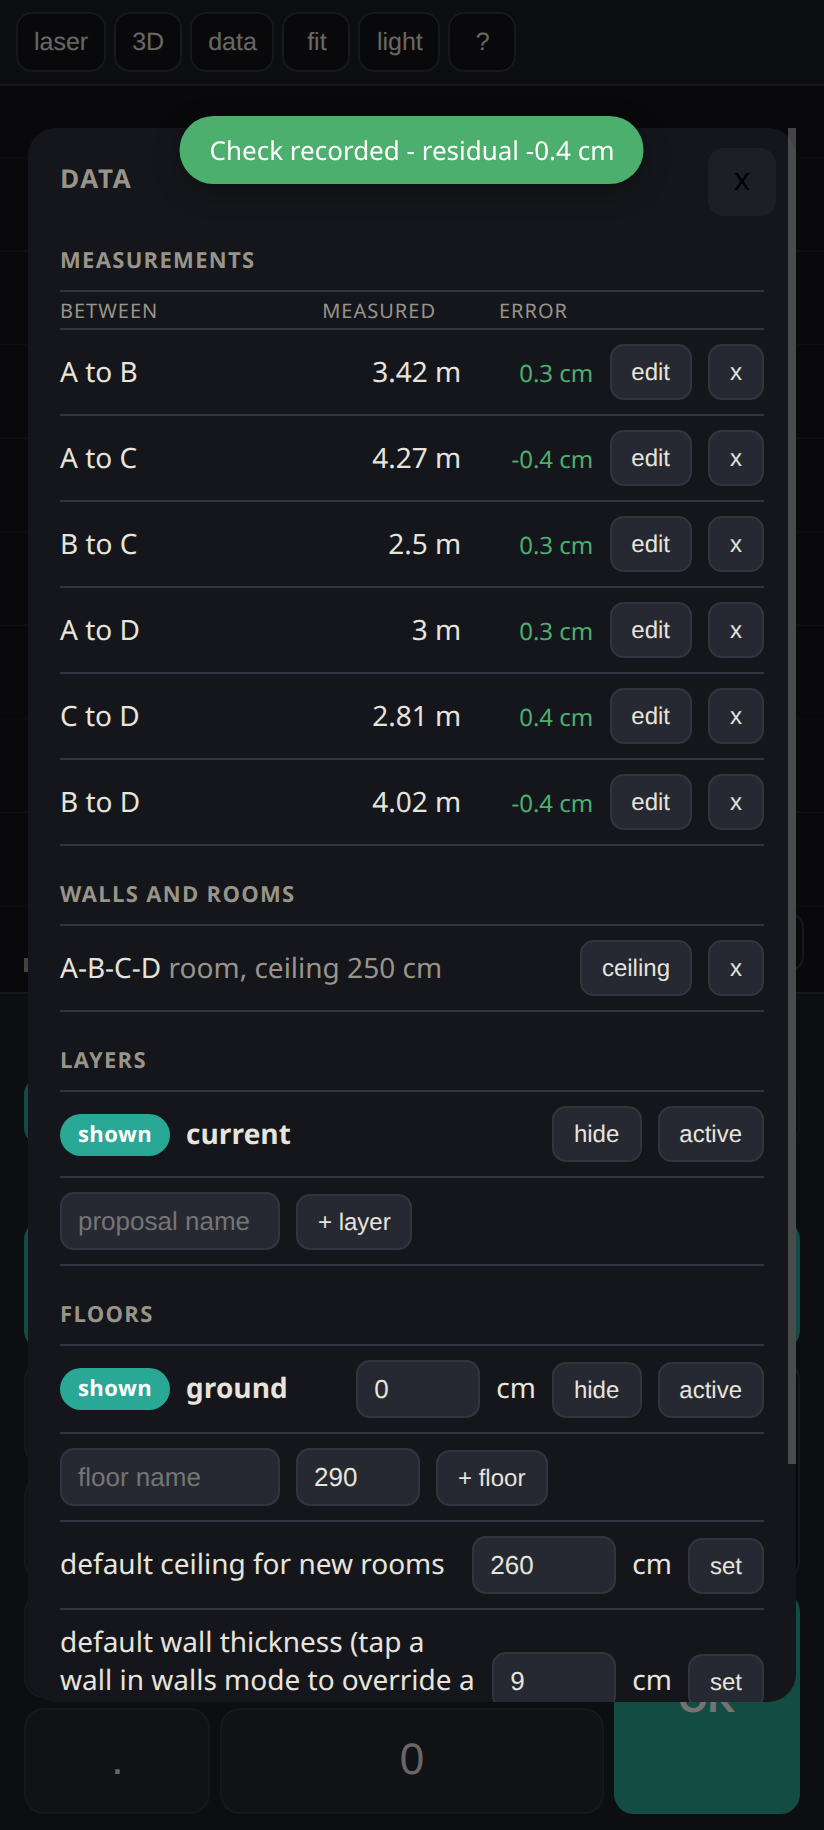
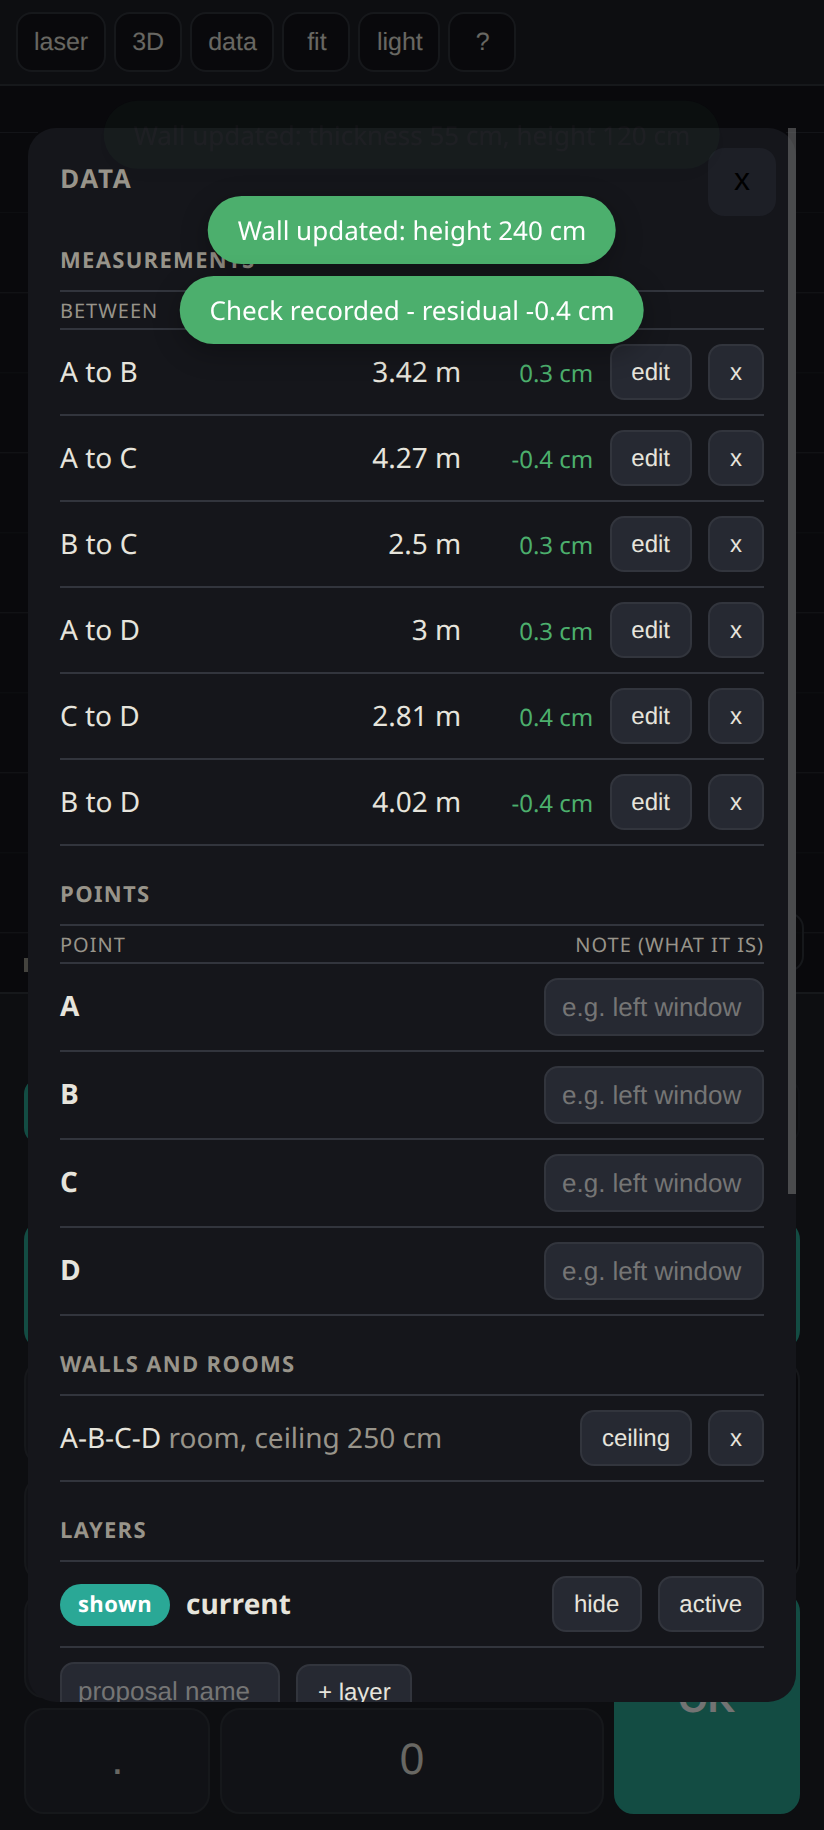
laser: OK fires the shot, dot held on for aiming, aim guidance
Measuring one-handed meant holding aim while hunting for the shoot
button, then moving to OK to commit. Now the primary key IS the shot:
with a triggerable meter connected and the field empty it reads
'shoot' and fires the laser; the reading lands, the key reverts to OK,
and a second press commits. Same thumb position throughout. Flows where
an empty OK already means 'keep current' are excluded.

The meter also parks its laser after a few seconds, so aiming meant
waking it by hand and losing the aim. While a reading is expected the
link now re-arms the dot every few seconds, which also lets the shot
fire with no arming delay. It stops on the reading, on disconnect, when
the app stops expecting a value, and after three idle minutes (a
pocketed phone must not flatten the meter); a panel toggle disables it.

Aim guidance: the target mark gets a large ring on the plan and an
'aim here' callout in both views, the status line names it, and points
carry an optional note ('left window reveal') editable in a new data
sheet points section - by point S the marks are not all taped and the
letter alone identifies nothing. Names never run out: A..Z, AA..ZZ,
AAA - spreadsheet style, already unbounded.

diff --git a/js/main.js b/js/main.js
@@ -421,6 +421,26 @@ function validateUi() {
   if (ui.activeWallId && !store.wall(ui.activeWallId)) ui.activeWallId = null;
 }
 
+// With a triggerable meter connected and nothing typed yet, the primary
+// key fires the laser instead of committing - one thumb position for
+// shoot, shoot, commit, so aim never has to be broken to hunt a button.
+// Only where an empty OK has no other meaning (flows that treat empty as
+// "keep current" keep their OK).
+function okIsShoot() {
+  if (!laser.canTrigger) return false;
+  if (ui.fields[ui.active]) return false;
+  if (ui.flow && ui.flow.kind !== 'record') return false;
+  return ui.mode === 'measure' || anchorMode();
+}
+
+// The point the next reading should be aimed at, so the app can say and
+// show WHICH mark to shoot rather than leaving it to memory.
+function aimTarget() {
+  if (!ui.refs.length || ui.mode !== 'measure' || ui.flow || anchorMode()) return null;
+  const id = multiMode() ? ui.refs[ui.multiD.length] : ui.refs[ui.active];
+  return id != null && pos(id) ? id : null;
+}
+
 // Multi-reference fixing: past the first two refs, distances are entered
 // one at a time into ui.multiD.
 const multiMode = () =>
@@ -817,7 +837,7 @@ function pressKey(key) {
   }
 
   if (key === 'flip') return pressFlip();
-  if (key === 'ok') return pressOk();
+  if (key === 'ok') return okIsShoot() ? laser.remoteTrigger() : pressOk();
   render();
 }
 
@@ -1313,6 +1333,24 @@ function renderLog() {
     });
   }
 
+  section('points');
+  if (!store.state.points.length) addRow('<span class="dim">none yet</span>');
+  else {
+    addRow('<span class="log-name">point</span><span class="log-val">note (what it is)</span>', 'log-cols');
+    for (const pt of store.state.points) {
+      const fl = store.floor(pt.floor);
+      const row = addRow(
+        `<span class="log-name"><b>${pt.name}</b>${fl && pt.floor !== activeFloor() ? ` <span class="dim">${fl.name}</span>` : ''}</span>` +
+        `<input data-act="note" placeholder="e.g. left window reveal" value="${(pt.note ?? '').replace(/"/g, '&quot;')}">`
+      );
+      const input = row.querySelector('[data-act="note"]');
+      input.addEventListener('change', () => {
+        store.setPointNote(pt.id, input.value);
+        toast(input.value.trim() ? `${pt.name}: ${input.value.trim()}` : `${pt.name} note cleared`, 'good');
+      });
+    }
+  }
+
   const unsolved = unsolvedPoints(false);
   if (unsolved.length) {
     section('unsolved points');
@@ -1710,6 +1748,12 @@ function renderPanel() {
   // The keypad key is purely a candidate/side SWAP inside placement
   // flows; flipping a measured point is an action on that point and
   // lives next to delete in the refbar instead.
+  const okKey = document.querySelector('[data-key="ok"]');
+  if (okKey) {
+    const shoot = okIsShoot();
+    okKey.textContent = shoot ? 'shoot' : 'OK';
+    okKey.classList.toggle('shoot', shoot);
+  }
   const flipKey = document.querySelector('[data-key="flip"]');
   const zeroKey = document.querySelector('[data-key="0"]');
   if (flipKey) {
@@ -1742,8 +1786,9 @@ function renderPanel() {
     else if (ui.refs.length < 2) msg = { text: 'Tap 2 reference points on the plan', cls: '' };
     else if (multiMode()) {
       const k = ui.multiD.length;
+      const t = store.point(ui.refs[k]);
       msg = {
-        text: `Multi-fix: distance ${k + 1} of ${ui.refs.length}, to ${store.point(ui.refs[k])?.name} - side picks itself from the extras`,
+        text: `Multi-fix: distance ${k + 1} of ${ui.refs.length}, aim at ${t?.name}${t?.note ? ` (${t.note})` : ''} - side picks itself from the extras`,
         cls: '',
       };
     }
@@ -1754,7 +1799,11 @@ function renderPanel() {
       } else if (pv && pv.cands) {
         msg = { text: 'OK places the marked candidate - or tap the other one', cls: '' };
       } else {
-        msg = { text: `Type distances to ${store.point(ui.refs[0]).name} and ${store.point(ui.refs[1]).name}`, cls: '' };
+        const t = store.point(ui.refs[ui.active]);
+        const verb = laser.canTrigger ? 'Shoot' : 'Measure';
+        msg = t
+          ? { text: `${verb} ${t.name}${t.note ? ` (${t.note})` : ''} - distance ${ui.active + 1} of 2`, cls: '' }
+          : { text: `Type distances to ${store.point(ui.refs[0]).name} and ${store.point(ui.refs[1]).name}`, cls: '' };
       }
     }
   }
@@ -1787,7 +1836,7 @@ function renderPanel() {
 }
 
 function renderPlan() {
-  const content = { points: [], segments: [], circles: [], ghosts: [], rects: [], polygons: [], handles: [], labels: [] };
+  const content = { points: [], segments: [], circles: [], ghosts: [], rects: [], polygons: [], handles: [], aims: [], labels: [] };
   const pts = store.state.points;
 
   if (anchorMode()) {
@@ -1979,6 +2028,28 @@ function renderPlan() {
     content.points.push({ x: u.p.x, y: u.p.y, style: 'error' });
     content.labels.push({ key: `up${u.pt.id}`, x: u.p.x, y: u.p.y, text: `${u.pt.name}?`, cls: 'name', dy: -18 });
     content.labels.push({ key: `ue${u.pt.id}`, x: u.p.x, y: u.p.y, text: `unsolved: ${u.reason}`, cls: 'res err', dy: 15 });
+  }
+
+  // Aim marker: an unmistakable ring on the point the next shot is for,
+  // with its note when it has one - marks in the room are often
+  // unlabelled, and by point S nobody remembers which is which.
+  const aimId = aimTarget();
+  if (aimId != null) {
+    const ap = pos(aimId);
+    const apt = store.point(aimId);
+    content.aims.push({ x: ap.x, y: ap.y });
+    content.labels.push({
+      key: 'aim', x: ap.x, y: ap.y, dy: 32,
+      text: apt.note ? `aim here: ${apt.note}` : 'aim here', cls: 'aim',
+    });
+    // Keep the target on screen without fighting the user's panning:
+    // only reframe when the target itself changes.
+    if (renderPlan.lastAim !== aimId) {
+      renderPlan.lastAim = aimId;
+      if (!plan.isOnScreen(ap.x, ap.y)) plan.fitAll([...store.solved.pos.values()]);
+    }
+  } else {
+    renderPlan.lastAim = null;
   }
 
   // Two-distance preview (points and item corners).
@@ -2213,6 +2284,16 @@ function surveyViz() {
     viz.labels.push({ key: `up${u.pt.id}`, x: u.p.x, y: u.p.y, z: activeE + 0.55, text: `${u.pt.name}?`, cls: 'name' });
     viz.labels.push({ key: `ue${u.pt.id}`, x: u.p.x, y: u.p.y, z: activeE + 0.32, text: `unsolved: ${u.reason}`, cls: 'res err' });
   }
+  const aimId3 = aimTarget();
+  if (aimId3 != null) {
+    const ap = pos(aimId3);
+    const apt = store.point(aimId3);
+    const ae = elev(apt.floor);
+    viz.labels.push({
+      key: 'aim', x: ap.x, y: ap.y, z: ae + 0.95,
+      text: apt.note ? `aim here: ${apt.note}` : 'aim here', cls: 'aim',
+    });
+  }
   const pv = preview();
   if (pv) {
     const [r1, r2] = ui.refs.map(pos);
@@ -2278,6 +2359,8 @@ function render() {
   validateUi();
   renderPanel();
   renderCoach();
+  // The dot stays lit exactly while a reading is expected.
+  if (okIsShoot()) laser.aimStart(); else laser.aimStop();
   if (ui.view === '3d') {
     if (view3d) view3d.build(store.state, store.solved, visibleLayers(), surveyViz());
   } else {
@@ -2464,6 +2547,9 @@ function renderLaser() {
   $('laser-disconnect').hidden = !on;
   const off = $('laser-off');
   if (document.activeElement !== off) off.value = (laser.remoteOffset * 100).toFixed(1);
+  $('aim-pill').className = 'pill ' + (laser.aimEnabled ? 'on' : 'off');
+  $('aim-pill').textContent = laser.aimEnabled ? 'on' : 'off';
+  $('aim-btn').textContent = laser.aimEnabled ? 'turn off' : 'turn on';
   $('auto-pill').className = 'pill ' + (ui.autoLaser === true ? 'on' : 'off');
   $('auto-pill').textContent = ui.autoLaser === true ? 'on' : 'off';
   $('auto-btn').textContent = ui.autoLaser === true ? 'turn off' : 'turn on';
@@ -2503,6 +2589,14 @@ $('laser-setlo').addEventListener('click', () => {
   } else {
     toast('Offset must be between 0 and 50 cm', 'warn');
   }
+});
+$('aim-btn').addEventListener('click', () => {
+  laser.aimEnabled = !laser.aimEnabled;
+  try { localStorage.setItem('house-measurer.laserAim', laser.aimEnabled ? 'on' : 'off'); } catch {}
+  if (!laser.aimEnabled) laser.aimStop();
+  toast(laser.aimEnabled ? 'Laser dot held on while aiming' : 'Laser dot keep-alive off', 'good');
+  renderLaser();
+  render();
 });
 $('laser-copy').addEventListener('click', async () => {
   try {
@@ -2567,6 +2661,7 @@ $('laser-cal').addEventListener('click', () => {
 try {
   const lo = parseFloat(localStorage.getItem('house-measurer.laserOffset'));
   if (isFinite(lo) && lo >= 0 && lo < 0.5) laser.remoteOffset = lo;
+  laser.aimEnabled = localStorage.getItem('house-measurer.laserAim') !== 'off';
 } catch {}
 
 buildKeypad();

diff --git a/index.html b/index.html
@@ -128,6 +128,11 @@
       <button id="laser-disconnect" class="danger" hidden>disconnect</button>
     </div>
     <div class="row">
+      <span class="log-name">hold the laser dot on while a reading is expected (so you can aim without waking the meter by hand)</span>
+      <span id="aim-pill" class="pill on">on</span>
+      <button id="aim-btn">turn off</button>
+    </div>
+    <div class="row">
       <span class="log-name">auto survey mode: readings advance and commit points by themselves</span>
       <span id="auto-pill" class="pill off">off</span>
       <button id="auto-btn">turn on</button>
@@ -200,6 +205,9 @@
     <h2>keys</h2>
     <p>Drag to pan, pinch or scroll to zoom, double-tap empty plan to zoom in one-handed. Keyboard: digits, Enter = OK, Tab = other field, f = flip/swap, Escape = cancel, ctrl+z undo.</p>
     <h2>bluetooth laser</h2>
+    <p>With a Bosch meter connected the <b>OK</b> key becomes <b>shoot</b> whenever the field is empty: aim, press it, the reading lands, press again (now OK) to commit. One thumb position for the whole cycle - no hunting for a separate button while holding aim. Type a digit and it reverts to OK.</p>
+    <p>Whenever a reading is expected the app also keeps the meter's laser dot lit (re-arming it every few seconds), so you can aim before shooting instead of waking the meter with its own button and losing the aim. Because the meter is already armed, the shot fires immediately. The dot parks itself after a few idle minutes, and the keep-alive can be turned off in the laser panel.</p>
+    <p>While you are entering distances the app marks the target: a ring on the plan and 3D labelled <b>aim here</b>, and the status line names the mark. Give points a note in the data sheet (<b>points</b> section - "left window reveal", "radiator corner") and it shows up in both, so an unmarked point is still identifiable days later. Point names never run out: after Z they continue AA, AB ... ZZ, AAA.</p>
     <p>Tap <b>laser</b> in the header to open the laser panel, then <b>connect</b> (Chrome, and the app must be on its https:// address or localhost). Each reading lands in the active field ready for OK. The panel also holds the remote-shoot offset and a log of recent protocol frames (copyable) so unknown meters can be given a decoder.</p>
     <p><b>Meter modes</b>: the meter's continuous mode streams into the app - the active field holds a rolling average (hand shake cancels out; re-aiming or pausing starts a fresh window), and the status line shows the sample count plus the meter's own min/max. Nothing commits until you press OK. Area and volume results are announced in the status line but never treated as distances.</p>
     <p><b>Auto mode</b> (in the laser panel, off by default): each laser reading advances the survey by itself. The number of selected references is the contract: with 2 selected, every pair of readings places a point; with 3 or 4 selected, every point takes that many readings and commits on the last one - then the next point begins automatically against the same references. The status line always names which reference to shoot next, and the phone buzzes: short tick = reading logged, triple = point placed, long = reading refused. A mis-fired shot is retracted with <b>del</b> (steps back one reading); Escape restarts the current fix. Every guard still applies: impossible pairs are refused with an explanation, flip swaps a wrong side, and undo unwinds anything.</p>

diff --git a/js/laser.js b/js/laser.js
@@ -200,6 +200,11 @@ export class LaserLink {
     // exactly 100 mm on a UniversalDistance 50C. Adjustable in the data
     // sheet; applied to remote replies only.
     this.remoteOffset = 0.100;
+    // Keep-alive for the aiming dot (see aimStart). On by default; the
+    // laser panel can turn it off.
+    this.aimEnabled = true;
+    this.aiming = false;
+    this.aimIdleMs = 180000;
   }
 
   get available() {
@@ -327,6 +332,7 @@ export class LaserLink {
   }
 
   disconnect() {
+    this.aimStop();
     try { this.device?.gatt?.disconnect(); } catch {}
     this.connected = false;
     this.boschChar = null;
@@ -362,15 +368,47 @@ export class LaserLink {
     return this.device?.name || 'laser measure';
   }
 
+  // Hold the aiming dot on while the app is waiting for a reading. The
+  // meter drops its laser after a few seconds, and waking it with the
+  // physical button costs the aim - so re-arm on an interval instead.
+  // Stops on a reading, when the app stops expecting one, on disconnect,
+  // and after aimIdleMs so a pocketed phone cannot flatten the meter.
+  aimStart() {
+    if (!this.canTrigger || !this.aimEnabled || this.aiming || this.aimIdle) return;
+    this.aiming = true;
+    this._aimSince = Date.now();
+    const tick = () => {
+      if (!this.aiming || !this.canTrigger) return this.aimStop();
+      if (Date.now() - this._aimSince > this.aimIdleMs) {
+        this.aimIdle = true;
+        this.aimStop();
+        return this.status('Laser dot parked after idling - shoot re-arms it', '');
+      }
+      this._write(this.boschChar, BOSCH_LASER_ON);
+    };
+    tick();
+    this._aimTimer = setInterval(tick, 4000);
+  }
+
+  aimStop() {
+    this.aiming = false;
+    if (this._aimTimer) clearInterval(this._aimTimer);
+    this._aimTimer = null;
+  }
+
   // Remote, shake-free measurement: arm the laser, then trigger. The
   // reading arrives through the normal notification path; if none does,
   // the meter kept 0.0 and remote measuring is off on this model.
   async remoteTrigger() {
     if (!this.canTrigger) return this.status('Remote trigger needs a connected Bosch meter', 'warn');
     const before = this._lastAt;
-    this.status('Arming laser...');
-    await this._write(this.boschChar, BOSCH_LASER_ON);
-    await new Promise((r) => setTimeout(r, 450));
+    this.aimIdle = false;
+    // Already lit for aiming: fire straight away, no arming delay.
+    if (!this.aiming) {
+      this.status('Arming laser...');
+      await this._write(this.boschChar, BOSCH_LASER_ON);
+      await new Promise((r) => setTimeout(r, 450));
+    }
     await this._write(this.boschChar, BOSCH_TRIGGER);
     setTimeout(() => {
       if (this._lastAt === before) {
@@ -466,6 +504,7 @@ export class LaserLink {
     if (this._lastValue === v && now - this._lastAt < 800) return;
     this._lastValue = v;
     this._lastAt = now;
+    this.aimIdle = false;
     // The frame kind and pre-correction value ride along so the app can
     // treat button pushes and remote replies differently (calibration
     // derives the body length from exactly that difference).

diff --git a/js/plan.js b/js/plan.js
@@ -8,6 +8,7 @@
 //   rects:    [{x, y, rot, w, d, color, opacity, halo}],   // items
 //   polygons: [{pts: [{x,y}...], color, opacity}],          // room fill
 //   handles:  [{x, y}],                                     // rotate handle
+//   aims:     [{x, y}],                                     // shoot-at-me ring
 //   labels:   [{key, x, y, text, cls, dx, dy}],
 // }
 
@@ -262,6 +263,17 @@ export class PlanView {
         const ring = new THREE.Mesh(this.geoThinRing, this.mat('mesh', COLORS.lastRing));
         ring.position.set(p.x, p.y, 1.1);
         ring.scale.set(r + 5 * s, r + 5 * s, 1);
+        this.group.add(ring);
+      }
+    }
+
+    // Aim marker: two concentric rings, deliberately larger than any
+    // other point decoration so the target reads at a glance.
+    for (const a of c.aims || []) {
+      for (const [r, op] of [[20, 0.95], [30, 0.5]]) {
+        const ring = new THREE.Mesh(this.geoThinRing, this.mat('mesh', COLORS.refRing, op));
+        ring.position.set(a.x, a.y, 1.15);
+        ring.scale.set(r * s, r * s, 1);
         this.group.add(ring);
       }
     }

diff --git a/style.css b/style.css
@@ -157,6 +157,14 @@ header button:disabled { opacity: 0.35; }
   font-variant-numeric: tabular-nums;
 }
 .lbl.ghost { font-size: 12px; font-weight: 600; color: var(--teal); }
+.lbl.aim {
+  font-size: 11.5px;
+  font-weight: 700;
+  color: #fff;
+  background: var(--amber);
+  padding: 2px 7px;
+  border-radius: 99px;
+}
 .lbl.ghost.dim { opacity: 0.55; font-weight: 400; }
 .lbl.ang {
   font-size: 11px;
@@ -345,6 +353,9 @@ header button:disabled { opacity: 0.35; }
   font-weight: 700;
 }
 .key.ok:active { background: var(--ok-press); }
+/* OK doubles as the laser trigger while no value is typed. */
+.key.ok.shoot { background: var(--amber); border-color: var(--amber); }
+.key.ok.shoot:active { filter: brightness(0.9); }
 
 /* ---- 3D view ---- */
 #view3d-wrap {

diff --git a/js/state.js b/js/state.js
@@ -310,6 +310,19 @@ export class Store {
     return id;
   }
 
+  // A short free-text note on a point ("radiator corner", "left reveal").
+  // Marks in the room are often unlabelled; this is how a point stays
+  // identifiable days later.
+  setPointNote(id, note) {
+    const txt = String(note ?? '').trim().slice(0, 60);
+    this.commit((s) => {
+      const p = s.points.find((x) => x.id === id);
+      if (!p) return;
+      if (txt) p.note = txt;
+      else delete p.note;
+    });
+  }
+
   flipSide(id) {
     const pt = this.point(id);
     if (!pt || !pt.fix) return;
